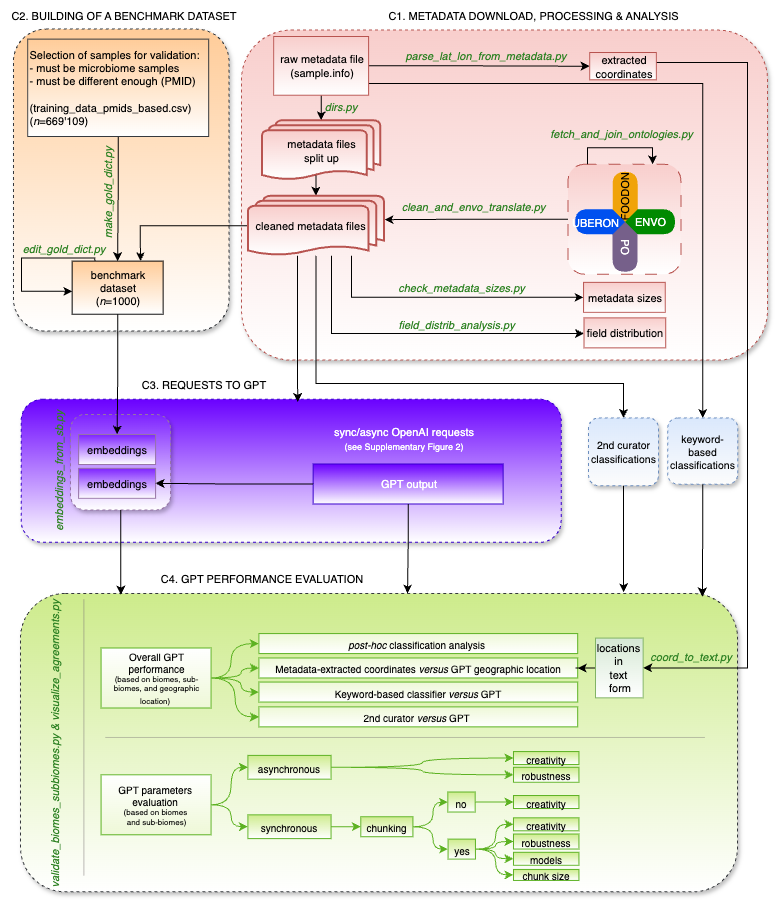
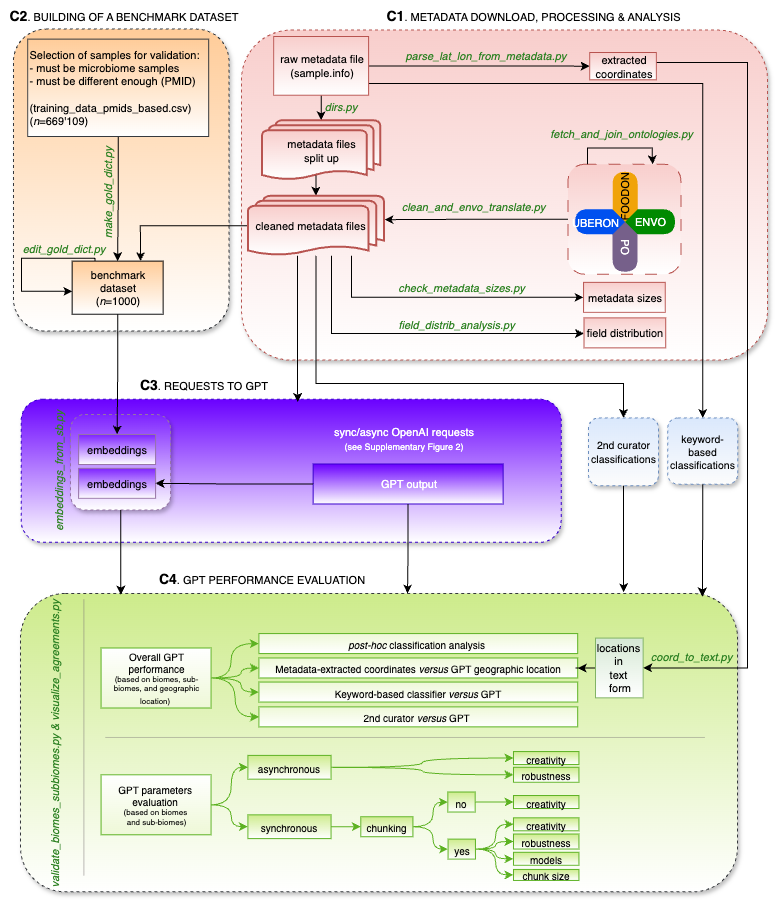
color

diff --git a/README.md b/README.md
@@ -28,7 +28,7 @@
 
 some text introducing the containers. Add figure. 
 
-This repository contains a modular, containerized pipeline for processing and annotating environmental sample metadata as part of the **MicrobeAtlasProject**. Each container encapsulates a specific set of tasks — as you see depicted below - from preprocessing metadata (red), creating a benchmark dataset (orange), interacting with GPT models and generating embeddings (purple), to GPT output evaluation (green). 
+This repository contains a modular, containerized pipeline for processing and annotating environmental sample metadata as part of the **MicrobeAtlasProject**. Each container encapsulates a specific set of tasks — as you see depicted below - from preprocessing metadata (C1 - red (<span style="color:red">red</span>)), creating a benchmark dataset (C2 - orange), interacting with GPT models and generating embeddings (C3 - purple), to GPT output evaluation (C3 - green). 
 
 ![Pipeline overview](pipeline.png)
 
